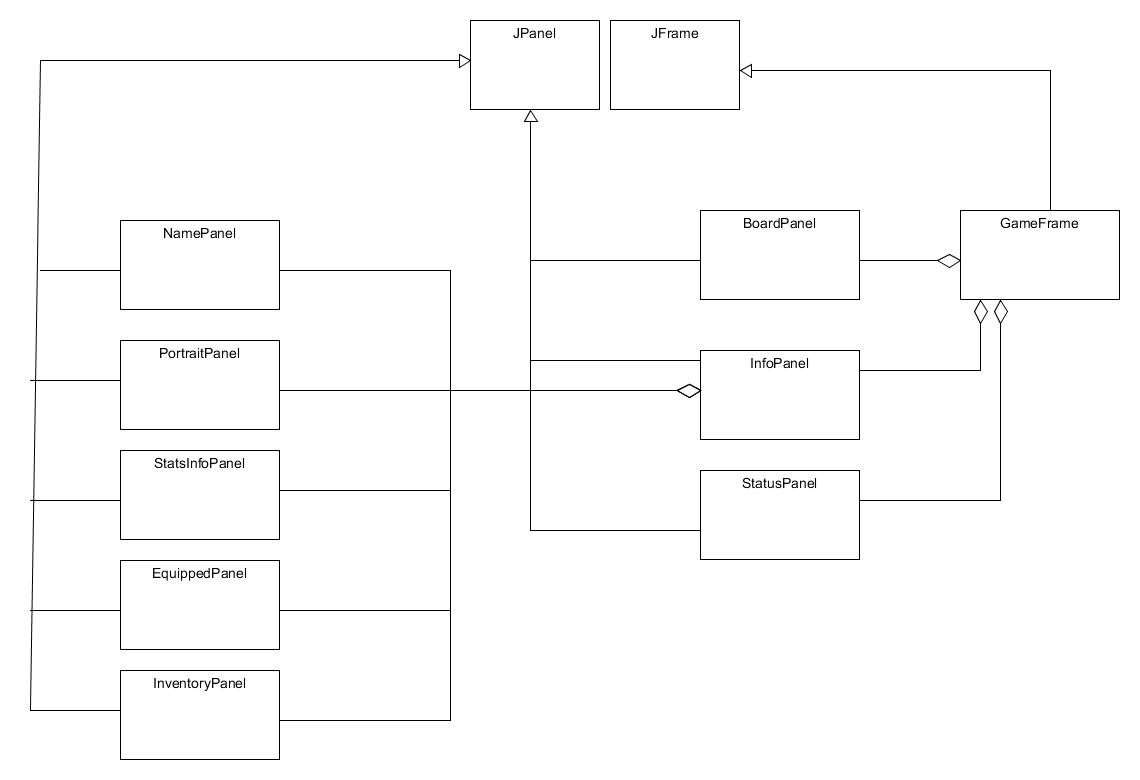
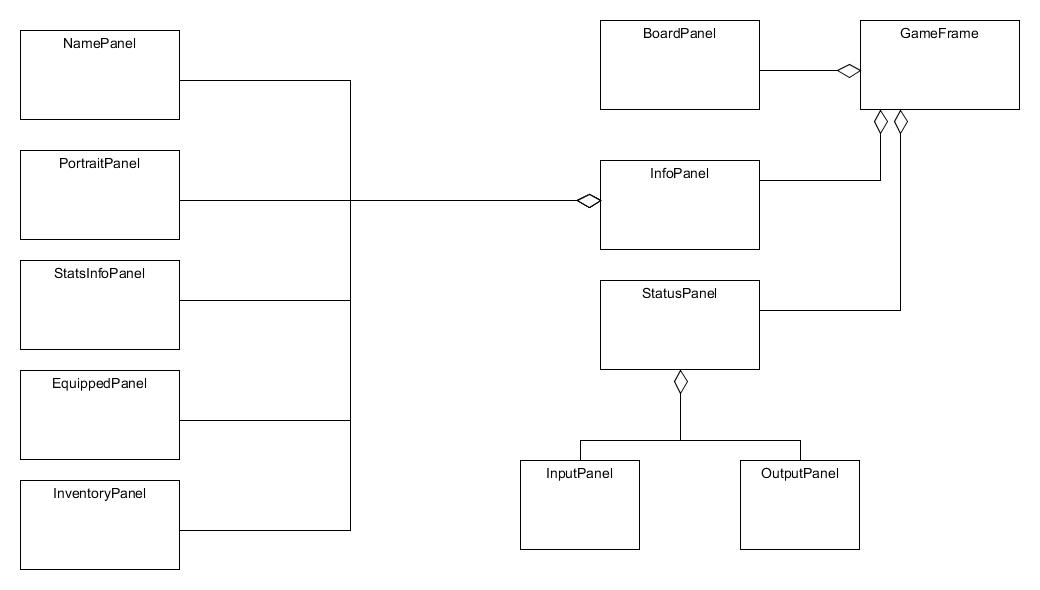
updated uml

diff --git a/src/Views/StatusPanel.java b/src/Views/StatusPanel.java
@@ -7,9 +7,13 @@ import java.awt.*;
  * Created by Marcus on 2/4/2015.
  */
 public class StatusPanel extends JPanel{
+    private InputPanel inputPanel;
+    private OutputPanel outputPanel;
     public StatusPanel(){
         add(new JLabel("Status"));
         setPreferredSize(new Dimension(500,100));
         setBorder(BorderFactory.createLineBorder(Color.BLACK));
+        setLayout(new BorderLayout());
+
     }
 }
